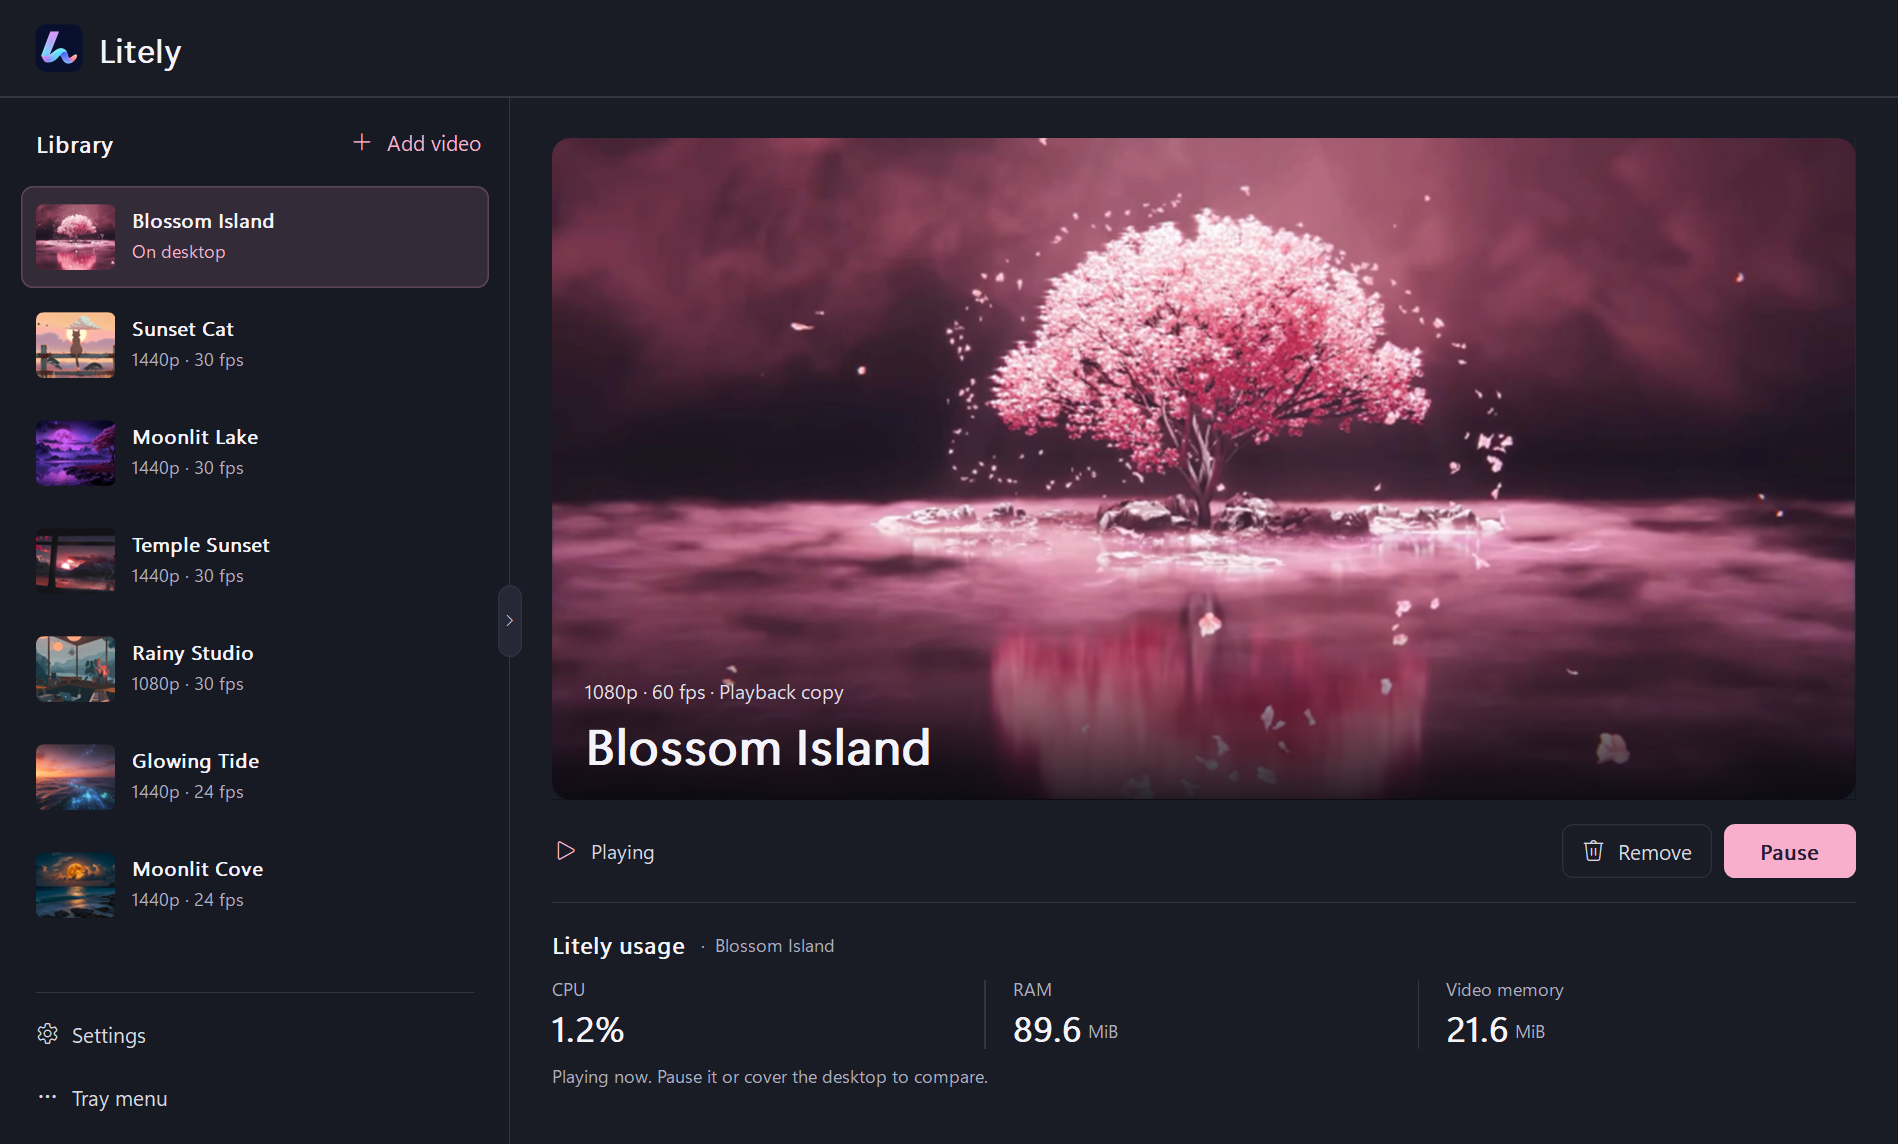
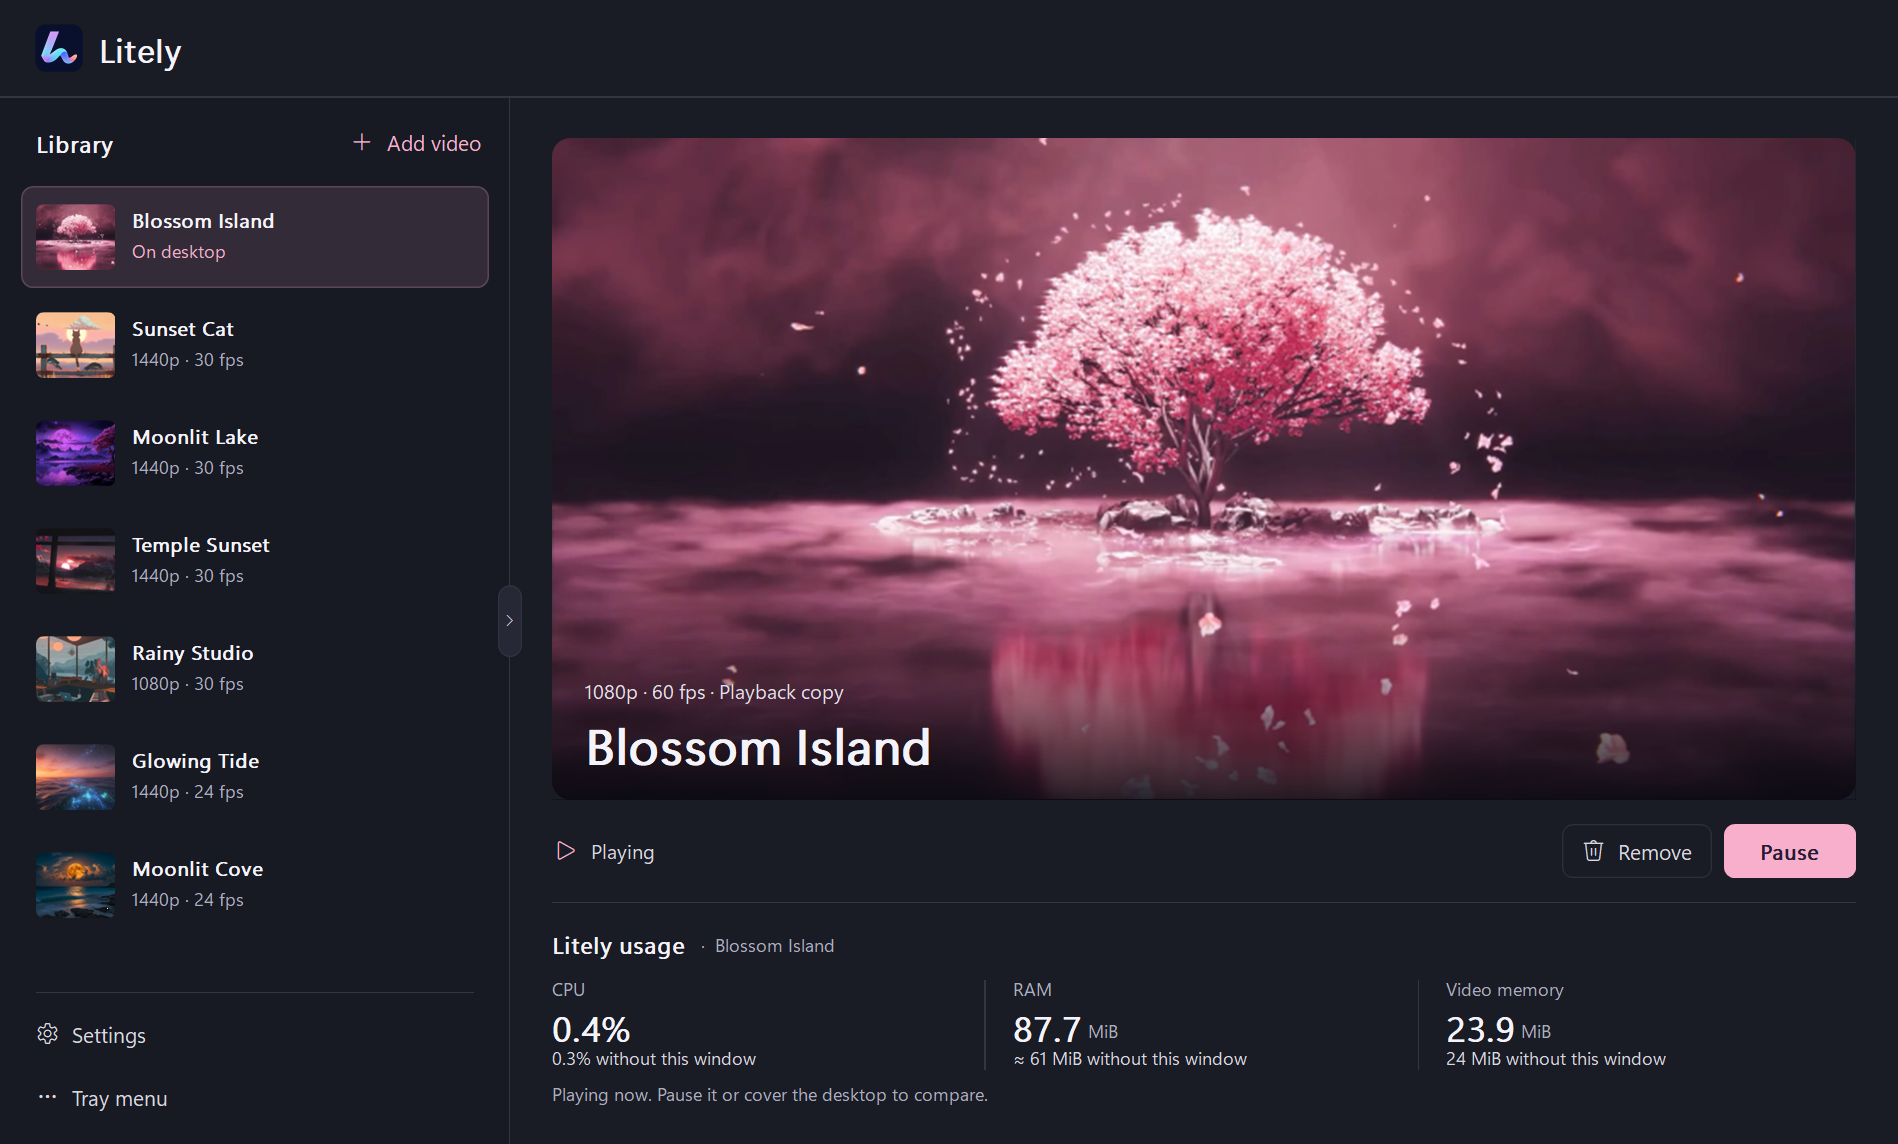
docs: README screenshots at one window size, with usage readings and desktop notes

Changed region(s): [[0.2798, 0.8872, 0.6528, 0.979], [0.7771, 0.8872, 0.8704, 0.9484]]

diff --git a/README.md b/README.md
@@ -60,7 +60,7 @@
   <tr>
     <td valign="top">
       <h3>A Library for your wallpapers</h3>
-      Keep them in a list or a gallery and switch with one click. The accent colour follows your wallpaper.
+      Keep them in a list or a gallery and switch with one click. Live CPU, RAM and video memory readings show what the wallpaper costs. The accent colour follows your wallpaper.
     </td>
     <td valign="top">
       <h3>Pause on any frame</h3>
@@ -98,7 +98,7 @@ Prefer no installer? **Litely-portable.zip** on the same page runs from any fold
 1. Click the tray icon and choose **Open Litely**.
 2. Select **Add video** and pick a video or GIF. Litely makes a Lowest memory copy by default; you can keep the original instead.
 3. Click the video in the Library to put it on your desktop.
-4. Right-click the tray icon to pause on the current frame, change the performance mode or exit.
+4. Right-click the tray icon to see what the wallpaper is using, pause on the current frame, change the performance mode or exit.
 
 ## Litely vs Lively Wallpaper
 
@@ -175,7 +175,7 @@ GIFs and MPEG streams (`.mpg`, `.ts`) always get a copy. If Windows has no decod
 <details>
 <summary><b>30 fps on battery</b></summary>
 
-**Settings > 30 fps on battery** (off by default) makes a 30 fps copy of the active wallpaper once, in the background, and plays it while on battery.
+**Settings > 30 fps on battery** (off by default) makes a 30 fps copy of the active wallpaper once, in the background, and plays it while on battery. Litely uses about 30 MiB more RAM while it makes the copy.
 
 </details>
 
@@ -198,6 +198,8 @@ GIFs and MPEG streams (`.mpg`, `.ts`) always get a copy. If Windows has no decod
 
 - Choosing a video also sets a still from it as the Windows wallpaper, which Windows shows while the player starts.
 - Litely keeps its stills out of **Settings > Personalization > Background > Recent images**.
+- The still is set on every virtual desktop, so switching desktops doesn't stall while Windows swaps wallpapers.
+- The Library shows Litely's usage with its window open and an estimate without it. With the Library closed, the tray menu shows the wallpaper's own usage.
 - Translucent and irregular windows can leave the animation running, because Litely only counts opaque windows as covering the desktop.
 
 </details>
